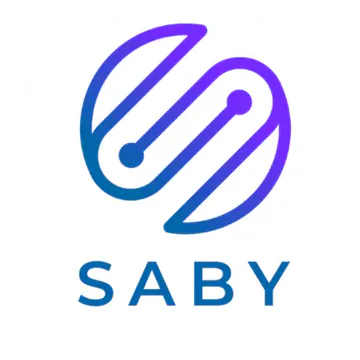
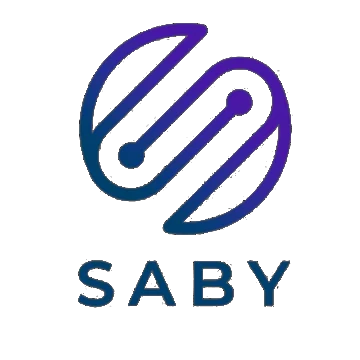
STAGING: brief 2 — true-alpha venture marks (fix faded marks) + six content changes
Priority 1 — faded company marks (owner's top defect)
The four venture marks were opaque bitmaps with the white ground baked in, so
the tile behind them could not help, and two carried light artwork that washed
out. Rebuilt as true-alpha assets: the baked ground is keyed out with a
luminance->alpha matte and the ink re-solved into a dark band, hue preserved by
scaling in linear light. All four now clear >=4.5:1 on the #fff plates, with no
change to the tile colour or the grayscale/hover treatment. Working sources are
kept under source/images/venture-*-alpha.png.

Trust Flow's mark had the wrong wordmark (SAYRAFA) baked in. That wordmark band
is cleared and re-typeset as "Trust Flow" in the site's own display face
(Newsreader) — a TEMPORARY typeset lockup awaiting the official logo.

Content changes
- Esaal: statistic now reads "More than 15,000 receipts" (official wording).
- Founder title: "Founder & Chief Executive Officer" -> "Chairman & CEO"
  everywhere, including the portrait alt text. No variant remains.
- Dari: status marker added to the page hero and to the Dari card on index and
  companies ("In development — coming soon"); page title and meta description
  no longer imply it is live. No existing content removed.
- Trust Flow: SAYRAFA no longer appears anywhere in the built site.
- Leadership: Moatassem Abdelhaleem moved from the Advisory Board into "Our
  Leadership Structure" as "Head of AI & Digital Transformation"; leadership
[…]

diff --git a/build-site.js b/build-site.js
@@ -57,6 +57,9 @@ const VENTURES = [
     title: 'AI-Powered Smart Living System',
     copy: 'A next-generation smart home and building platform that adapts to behavior, emotion, and daily routines—not just device commands.',
     img: 'venture-dari.webp',
+    /* Dari is not live: the status travels with the card so the overview pages
+       cannot imply a shipping product. Same wording as the Dari page hero. */
+    status: 'In development — coming soon',
   },
   {
     name: 'SABY',
@@ -257,12 +260,16 @@ function ventureCard(v, h, i, wide) {
   const img = v.round
     ? `<img class="venture__mark--round" src="assets/img/${v.img}" alt="${v.name} — ${v.title}" loading="lazy" decoding="async">`
     : `<img src="assets/img/${v.img}" alt="${v.name} — ${v.title}" loading="lazy" decoding="async">`;
+  /* A venture that is not live says so on its card, in the site's own pill. */
+  const status = v.status
+    ? `\n                <p class="status-note">${v.status}</p>`
+    : '';
   return `            <article class="card venture reveal${wide ? ' venture--wide' : ''}" data-delay="${i % 3}">
               <div class="venture__media">
                 ${img}
               </div>
               <div class="venture__body">
-                <p class="venture__kicker">${v.kicker}</p>
+                <p class="venture__kicker">${v.kicker}</p>${status}
                 <h${h} class="venture__title">${v.name}</h${h}>
                 <p>${v.copy}</p>
                 <div class="card__foot"><a class="link-arrow" href="${v.file}">Read More</a></div>
@@ -327,7 +334,7 @@ function teamCards(team) {
         </article>`).join('\n');
 }
 
-function hero({ image, imageSmall, imageStacked, mark, title, lead, eyebrow, actions = '', cls = '' }) {
+function hero({ image, imageSmall, imageStacked, mark, title, lead, eyebrow, status = '', actions = '', cls = '' }) {
   /* imageSmall: a 960w rendition for phones; the wide one serves large screens. */
   const srcset = imageSmall
     ? ` srcset="assets/img/${imageSmall} 960w, assets/img/${image} 1920w" sizes="(max-width: 1099px) 100vw, 66vw" width="1920" height="1080"`
@@ -348,11 +355,12 @@ function hero({ image, imageSmall, imageStacked, mark, title, lead, eyebrow, act
     ? `      <img class="hero__mark" src="assets/img/${mark}" alt="" width="240" height="240">\n`
     : '';
   const eyebrowHtml = eyebrow ? `      <p class="eyebrow">${eyebrow}</p>\n` : '';
+  const statusHtml = status ? `      <p class="status-note">${status}</p>\n` : '';
   const actionsHtml = actions ? `      <div class="btn-row hero__actions">${actions}</div>\n` : '';
   return `  <section class="hero${cls}${photoCls}">
 ${media}    <div class="container hero__inner">
 ${markHtml}${eyebrowHtml}      <h1>${title}</h1>
-      <p class="lead">${lead}</p>
+${statusHtml}      <p class="lead">${lead}</p>
 ${actionsHtml}    </div>
   </section>`;
 }
@@ -473,14 +481,14 @@ const aboutBody = `${hero({
       <div class="reveal">
         <p class="eyebrow">Founder’s message</p>
         <h2>Abdullah Sultan AlMutairi</h2>
-        <p class="person__role">Founder &amp; Chief Executive Officer</p>
+        <p class="person__role">Chairman &amp; CEO</p>
         <p>NEXGEN was founded on the belief that innovation must deliver real value—not just ideas.</p>
         <p>As a holding company, our role goes beyond capital allocation. We actively shape ventures that address critical challenges facing our region, from clean energy and infrastructure efficiency to financial systems and digital transformation.</p>
         <p>We take a disciplined and selective approach, partnering with proven global innovators and regional institutions to ensure each venture is practical, scalable, and aligned with the long-term priorities of the Gulf.</p>
         <p>NEXGEN is committed to building companies that stand the test of time—creating sustainable impact for our partners, our markets, and future generations.</p>
       </div>
       <figure class="figure reveal" data-delay="1">
-        <img src="assets/img/team-abdullah.webp" alt="Abdullah Sultan AlMutairi, Founder &amp; Chief Executive Officer of NEXGEN Holdings" loading="lazy" decoding="async">
+        <img src="assets/img/team-abdullah.webp" alt="Abdullah Sultan AlMutairi, Chairman &amp; CEO of NEXGEN Holdings" loading="lazy" decoding="async">
       </figure>
     </div>
   </section>
@@ -491,7 +499,7 @@ const aboutBody = `${hero({
         <p class="eyebrow">Leadership</p>
         <h2>Our Leadership Structure</h2>
       </div>
-      <div class="grid grid-2 mt-4">
+      <div class="grid grid-3 mt-4">
         <article class="person reveal">
           <div class="person__media"><img src="assets/img/team-omar.webp" alt="Omar Almutairi, Head Of Fintech" loading="lazy" decoding="async"></div>
           <div class="person__body">
@@ -508,12 +516,22 @@ const aboutBody = `${hero({
             <p class="person__note">Leads NEXGEN’s renewable energy initiatives, overseeing decarbonization projects, water-energy recovery solutions, and strategic partnerships with utilities and infrastructure operators across the GCC.</p>
           </div>
         </article>
+        <article class="person reveal" data-delay="2">
+          <div class="person__media"><img src="assets/img/advisor-moatassem.webp" alt="Moatassem Abdelhaleem, Head of AI &amp; Digital Transformation" loading="lazy" decoding="async"></div>
+          <div class="person__body">
+            <h3 class="person__name">Moatassem Abdelhaleem</h3>
+            <p class="person__role">Head of AI &amp; Digital Transformation</p>
+            <p class="person__note">Leads NEXGEN’s artificial intelligence and digital transformation agenda.</p>
+          </div>
+        </article>
       </div>
 
       <div class="center reveal intro mt-6">
         <h2>Advisory Board</h2>
       </div>
-      <div class="grid grid-3 mt-4">
+      <!-- Advisory Board now carries two members; the AI & digital transformation
+           lead moved up into the leadership grid above. -->
+      <div class="grid grid-2 mt-4">
         <a class="advisor reveal" href="https://www.linkedin.com/in/abdullahmansouralenezi" target="_blank" rel="noopener">
           <img src="assets/img/advisor-alenzi.webp" alt="Abdullah Alenezi" loading="lazy" decoding="async">
           <span>
@@ -526,13 +544,6 @@ const aboutBody = `${hero({
           <span>
             <span class="advisor__name">Hanan Alsharah</span>
             <span class="advisor__role">Founder and CEO of Innotech</span>
-          </span>
-        </a>
-        <a class="advisor reveal" data-delay="2" href="https://www.linkedin.com/in/moatassem-abdelhaleem" target="_blank" rel="noopener">
-          <img src="assets/img/advisor-moatassem.webp" alt="Moatassem Abdelhaleem" loading="lazy" decoding="async">
-          <span>
-            <span class="advisor__name">Moatassem Abdelhaleem</span>
-            <span class="advisor__role">Founder &amp; CEO of Hexaflow</span>
           </span>
         </a>
       </div>
@@ -884,8 +895,8 @@ const esaalBody = `${hero({
       </div>
       <div class="stats reveal mt-4">
         <div class="stat">
-          <p class="stat__value">15,000<sup>+</sup></p>
-          <p class="stat__label">Yearly receipts sent from over 15k stores across the world</p>
+          <p class="stat__value">More than 15,000</p>
+          <p class="stat__label">receipts</p>
         </div>
         <div class="stat">
           <p class="stat__value">30<sup>%</sup></p>
@@ -946,6 +957,7 @@ const dariBody = `${hero({
   mark: 'venture-dari.webp',
   eyebrow: 'Artificial Intelligence',
   title: 'Dari',
+  status: 'In development — coming soon',
   lead: 'AI Smart Living — a home and building ecosystem that understands behavior, emotion, and lifestyle.',
   actions: `<a class="btn btn--accent" href="contact.html">Contact Us</a>`,
   ...ventureHeroOpts('dari'),
@@ -1108,7 +1120,7 @@ const PAGES = [
   { slug: 'inpipe-energy.html', active: 'inpipe-energy.html', title: 'InPipe Energy — HydroXS In-Pipe Hydropower | NEXGEN Holdings', desc: 'NEXGEN is the exclusive regional partner of InPipe Energy (USA), bringing HydroXS technology to the Gulf to turn excess water pressure into clean, reliable power.', body: inpipeBody, ogImage: 'hero-inpipe.webp' , cta: { title: 'Bring HydroXS to your network.', text: 'Get in touch to discuss whether HydroXS fits your site.', label: 'Contact Us' } },
   { slug: 'trust-flow.html', active: 'trust-flow.html', title: 'Trust Flow — Corporate & Investor Onboarding AI | NEXGEN Holdings', desc: 'Trust Flow automates onboarding for banks, investment firms, funds, and asset managers with AI document extraction, automated KYC/KYB, and compliance workflows.', body: trustFlowBody, ogImage: 'venture-trust-flow.webp' , cta: { title: 'Learn More About Trust Flow', text: 'Get in touch to learn more about Trust Flow for your bank, fund, or investment firm.', label: 'Contact Us' } , theme: 'trust-flow' },
   { slug: 'esaal.html', active: 'esaal.html', title: 'Esaal — Digital Receipts & Spending Intelligence | NEXGEN Holdings', desc: 'In collaboration with Esaal, NEXGEN brings Plug-n-Play digital receipts to the GCC — real-time customer profiling, campaign measurement, and no extra hardware.', body: esaalBody, ogImage: 'venture-esaal.webp' , cta: { title: 'Bring digital receipts to your customers.', text: 'Talk to us about a Plug-n-Play rollout across your stores.', label: 'Contact Us' } , theme: 'esaal' },
-  { slug: 'dari.html', active: 'dari.html', title: 'Dari — AI-Powered Smart Living System | NEXGEN Holdings', desc: 'Dari is a human-centric smart home and building platform that adapts to behavior, emotion, and daily routines using behavioral and emotional AI.', body: dariBody, ogImage: 'venture-dari.webp' , cta: { title: 'Shape the next generation of smart living.', text: 'Explore a partnership around Dari.', label: 'Contact Us' } , theme: 'dari' },
+  { slug: 'dari.html', active: 'dari.html', title: 'Dari — AI-Powered Smart Living System (In Development) | NEXGEN Holdings', desc: 'Dari is an in-development smart home and building platform that adapts to behavior, emotion, and daily routines using behavioral and emotional AI. Coming soon.', body: dariBody, ogImage: 'venture-dari.webp' , cta: { title: 'Shape the next generation of smart living.', text: 'Explore a partnership around Dari.', label: 'Contact Us' } , theme: 'dari' },
   { slug: 'saby.html', active: 'saby.html', title: 'SABY — Modern Technology Studio | NEXGEN Holdings', desc: 'SABY is NEXGEN’s dedicated software engineering studio delivering AI development, digital transformation, and enterprise-grade platforms for the region.', body: sabyBody, ogImage: 'venture-saby.webp' , cta: { title: 'Have something to build?', text: 'Talk to our engineering studio about AI and digital transformation.', label: 'Contact Us' } , theme: 'saby' },
   { slug: 'contact.html', active: 'contact.html', title: 'Contact Us — NEXGEN Holdings', desc: 'Contact NEXGEN Holdings for partnerships, ventures, and site assessments. Phone +973 3660 0911, email info@nexgen.bh.', body: contactBody, ogImage: 'contact-visual.webp', noCta: true },
 ];

diff --git a/site/about.html b/site/about.html
@@ -123,14 +123,14 @@
       <div class="reveal">
         <p class="eyebrow">Founder’s message</p>
         <h2>Abdullah Sultan AlMutairi</h2>
-        <p class="person__role">Founder &amp; Chief Executive Officer</p>
+        <p class="person__role">Chairman &amp; CEO</p>
         <p>NEXGEN was founded on the belief that innovation must deliver real value—not just ideas.</p>
         <p>As a holding company, our role goes beyond capital allocation. We actively shape ventures that address critical challenges facing our region, from clean energy and infrastructure efficiency to financial systems and digital transformation.</p>
         <p>We take a disciplined and selective approach, partnering with proven global innovators and regional institutions to ensure each venture is practical, scalable, and aligned with the long-term priorities of the Gulf.</p>
         <p>NEXGEN is committed to building companies that stand the test of time—creating sustainable impact for our partners, our markets, and future generations.</p>
       </div>
       <figure class="figure reveal" data-delay="1">
-        <img src="assets/img/team-abdullah.webp" alt="Abdullah Sultan AlMutairi, Founder &amp; Chief Executive Officer of NEXGEN Holdings" loading="lazy" decoding="async" width="900" height="1094">
+        <img src="assets/img/team-abdullah.webp" alt="Abdullah Sultan AlMutairi, Chairman &amp; CEO of NEXGEN Holdings" loading="lazy" decoding="async" width="900" height="1094">
       </figure>
     </div>
   </section>
@@ -141,7 +141,7 @@
         <p class="eyebrow">Leadership</p>
         <h2>Our Leadership Structure</h2>
       </div>
-      <div class="grid grid-2 mt-4">
+      <div class="grid grid-3 mt-4">
         <article class="person reveal">
           <div class="person__media"><img src="assets/img/team-omar.webp" alt="Omar Almutairi, Head Of Fintech" loading="lazy" decoding="async" width="900" height="1094"></div>
           <div class="person__body">
@@ -158,12 +158,22 @@
             <p class="person__note">Leads NEXGEN’s renewable energy initiatives, overseeing decarbonization projects, water-energy recovery solutions, and strategic partnerships with utilities and infrastructure operators across the GCC.</p>
           </div>
         </article>
+        <article class="person reveal" data-delay="2">
+          <div class="person__media"><img src="assets/img/advisor-moatassem.webp" alt="Moatassem Abdelhaleem, Head of AI &amp; Digital Transformation" loading="lazy" decoding="async" width="700" height="778"></div>
+          <div class="person__body">
+            <h3 class="person__name">Moatassem Abdelhaleem</h3>
+            <p class="person__role">Head of AI &amp; Digital Transformation</p>
+            <p class="person__note">Leads NEXGEN’s artificial intelligence and digital transformation agenda.</p>
+          </div>
+        </article>
       </div>
 
       <div class="center reveal intro mt-6">
         <h2>Advisory Board</h2>
       </div>
-      <div class="grid grid-3 mt-4">
+      <!-- Advisory Board now carries two members; the AI & digital transformation
+           lead moved up into the leadership grid above. -->
+      <div class="grid grid-2 mt-4">
         <a class="advisor reveal" href="https://www.linkedin.com/in/abdullahmansouralenezi" target="_blank" rel="noopener">
           <img src="assets/img/advisor-alenzi.webp" alt="Abdullah Alenezi" loading="lazy" decoding="async" width="700" height="771">
           <span>
@@ -176,13 +186,6 @@
           <span>
             <span class="advisor__name">Hanan Alsharah</span>
             <span class="advisor__role">Founder and CEO of Innotech</span>
-          </span>
-        </a>
-        <a class="advisor reveal" data-delay="2" href="https://www.linkedin.com/in/moatassem-abdelhaleem" target="_blank" rel="noopener">
-          <img src="assets/img/advisor-moatassem.webp" alt="Moatassem Abdelhaleem" loading="lazy" decoding="async" width="700" height="778">
-          <span>
-            <span class="advisor__name">Moatassem Abdelhaleem</span>
-            <span class="advisor__role">Founder &amp; CEO of Hexaflow</span>
           </span>
         </a>
       </div>

diff --git a/site/dari.html b/site/dari.html
@@ -3,20 +3,20 @@
 <head>
 <meta charset="utf-8">
 <meta name="viewport" content="width=device-width, initial-scale=1, viewport-fit=cover">
-<title>Dari — AI-Powered Smart Living System | NEXGEN Holdings</title>
-<meta name="description" content="Dari is a human-centric smart home and building platform that adapts to behavior, emotion, and daily routines using behavioral and emotional AI.">
+<title>Dari — AI-Powered Smart Living System (In Development) | NEXGEN Holdings</title>
+<meta name="description" content="Dari is an in-development smart home and building platform that adapts to behavior, emotion, and daily routines using behavioral and emotional AI. Coming soon.">
 <link rel="canonical" href="https://nexgen.bh/dari.html">
 <meta name="theme-color" content="#363634">
 <meta property="og:type" content="website">
 <meta property="og:site_name" content="NEXGEN Holdings">
-<meta property="og:title" content="Dari — AI-Powered Smart Living System | NEXGEN Holdings">
-<meta property="og:description" content="Dari is a human-centric smart home and building platform that adapts to behavior, emotion, and daily routines using behavioral and emotional AI.">
+<meta property="og:title" content="Dari — AI-Powered Smart Living System (In Development) | NEXGEN Holdings">
+<meta property="og:description" content="Dari is an in-development smart home and building platform that adapts to behavior, emotion, and daily routines using behavioral and emotional AI. Coming soon.">
 <meta property="og:url" content="https://nexgen.bh/dari.html">
 <meta property="og:image" content="https://nexgen.bh/assets/img/venture-dari.webp">
 <meta property="og:locale" content="en_US">
 <meta name="twitter:card" content="summary_large_image">
-<meta name="twitter:title" content="Dari — AI-Powered Smart Living System | NEXGEN Holdings">
-<meta name="twitter:description" content="Dari is a human-centric smart home and building platform that adapts to behavior, emotion, and daily routines using behavioral and emotional AI.">
+<meta name="twitter:title" content="Dari — AI-Powered Smart Living System (In Development) | NEXGEN Holdings">
+<meta name="twitter:description" content="Dari is an in-development smart home and building platform that adapts to behavior, emotion, and daily routines using behavioral and emotional AI. Coming soon.">
 <meta name="twitter:image" content="https://nexgen.bh/assets/img/venture-dari.webp">
 <link rel="icon" href="favicon.png" type="image/png">
 <link rel="apple-touch-icon" href="favicon.png">
@@ -67,6 +67,7 @@
       <img class="hero__mark" src="assets/img/venture-dari.webp" alt="" width="240" height="240">
       <p class="eyebrow">Artificial Intelligence</p>
       <h1>Dari</h1>
+      <p class="status-note">In development — coming soon</p>
       <p class="lead">AI Smart Living — a home and building ecosystem that understands behavior, emotion, and lifestyle.</p>
       <div class="btn-row hero__actions"><a class="btn btn--accent" href="contact.html">Contact Us</a></div>
     </div>

diff --git a/site/assets/css/site.css b/site/assets/css/site.css
@@ -1345,6 +1345,38 @@ main > .next + .section {
 .js .reveal[data-delay="2"] { transition-delay: .12s; }
 .js .reveal[data-delay="3"] { transition-delay: .18s; }
 
+/* Venture status marker: a venture that is not live yet says so plainly, in the
+   site's own type and accent, so no page implies a shipping product. */
+.status-note {
+  display: inline-block;
+  margin: 0 0 var(--s2);
+  padding: 9px 16px;
+  font-family: var(--font-sans);
+  font-size: var(--fs-label);
+  font-weight: 600;
+  letter-spacing: .06em;
+  text-transform: uppercase;
+  color: var(--teal-ink);
+  background: rgba(42, 157, 153, .12);
+  border: 1px solid rgba(42, 157, 153, .34);
+  border-radius: 999px;
+}
+/* On the dark grounds the marker switches to the bright accent and a lighter
+   rule, matching the eyebrow treatment already used there. */
+.hero .status-note, .section--dark .status-note {
+  color: var(--teal-bright);
+  background: rgba(255, 255, 255, .08);
+  border-color: rgba(255, 255, 255, .28);
+}
+/* In a card body the paragraph rule (`.venture__body p`) outranks a bare class,
+   and the flex column would stretch the pill edge to edge; restate the size and
+   let the pill hug its own text. */
+.venture__body .status-note {
+  font-size: var(--fs-label);
+  align-self: flex-start;
+  margin-bottom: 10px;
+}
+
 /* --- 18. Responsive scale-up --------------------------------------------- */
 @media (min-width: 640px) {
   :root { --gutter: 24px; }

diff --git a/site/companies.html b/site/companies.html
@@ -147,6 +147,7 @@
               </div>
               <div class="venture__body">
                 <p class="venture__kicker">AI-Powered Smart Living System</p>
+                <p class="status-note">In development — coming soon</p>
                 <h3 class="venture__title">Dari</h3>
                 <p>A next-generation smart home and building platform that adapts to behavior, emotion, and daily routines—not just device commands.</p>
                 <div class="card__foot"><a class="link-arrow" href="dari.html">Read More</a></div>

diff --git a/site/index.html b/site/index.html
@@ -195,6 +195,7 @@
               </div>
               <div class="venture__body">
                 <p class="venture__kicker">AI-Powered Smart Living System</p>
+                <p class="status-note">In development — coming soon</p>
                 <h4 class="venture__title">Dari</h4>
                 <p>A next-generation smart home and building platform that adapts to behavior, emotion, and daily routines—not just device commands.</p>
                 <div class="card__foot"><a class="link-arrow" href="dari.html">Read More</a></div>

diff --git a/site/esaal.html b/site/esaal.html
@@ -158,8 +158,8 @@
       </div>
       <div class="stats reveal mt-4">
         <div class="stat">
-          <p class="stat__value">15,000<sup>+</sup></p>
-          <p class="stat__label">Yearly receipts sent from over 15k stores across the world</p>
+          <p class="stat__value">More than 15,000</p>
+          <p class="stat__label">receipts</p>
         </div>
         <div class="stat">
           <p class="stat__value">30<sup>%</sup></p>
